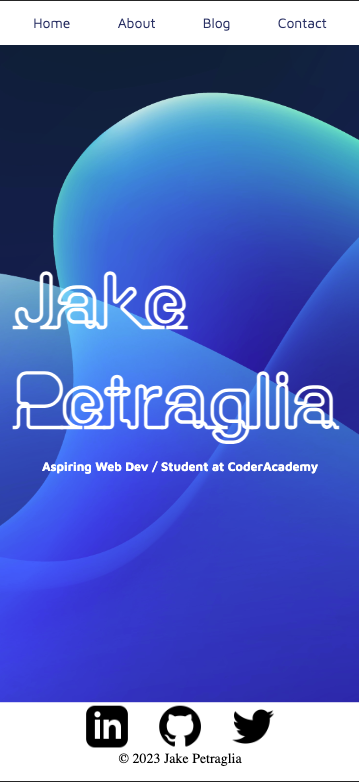
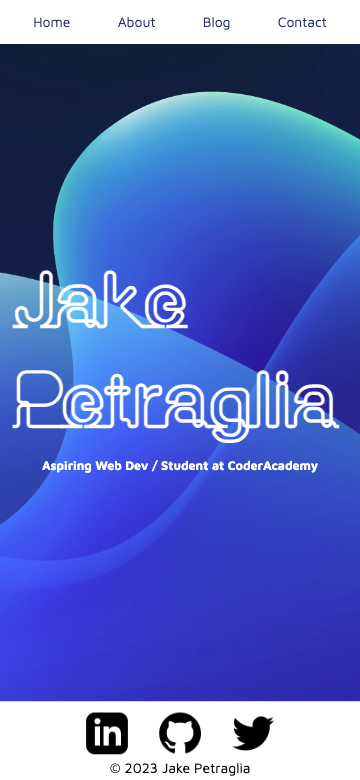
replaced the home mobile image, and adjusted the html and css so its less repeatable

diff --git a/src/styles.css b/src/styles.css
@@ -16,6 +16,9 @@ body {
     overflow: hidden;
 }
 
+/* Navigation component that is applied to each page at a fixed position,
+so that it will stick with the user as they scroll through the page */
+
 .navbar {
     display: flex;
     justify-content: space-evenly;
@@ -74,6 +77,8 @@ body {
     font-family: mySecondFont;
 }
 
+/* Footer component for the homepage so the user can easily access my socials */
+
 .social {
     background-color: white;
     display: flex;
@@ -119,44 +124,9 @@ body {
     font-family: mySecondFont;
 }
 
-.intro {
-    background-color: rgba(188, 188, 188, 0.3);
-    border-radius: 1%;
-    overflow: hidden;
-    padding: 1rem;
-    color: white;
-    width: 80%;
-    display: flex;
-    flex-direction: column;;
-    justify-content: center;
-    align-items: center;
-    flex-wrap: wrap;
-    margin: 2rem 0;
-}
+/* component for each section of my about page */
 
-.intro-heading {
-    font-family: myFirstFont;
-    font-size: 3rem;
-    margin: 1rem;
-    overflow: hidden;
-}
-
-.jake, .intro-text {
-    display: flex;
-    flex-direction: column-reverse;
-    align-items: center;
-    margin: 1rem 1rem;
-    padding: 1rem;
-    text-align: center;
-}
-
-.jake {
-    max-width: 100%;
-    width: 500px; 
-    height: auto;
-}
-
-.bio {
+.intro, .hobby, .bio {
     background-color: rgba(188, 188, 188, 0.3);
     border-radius: 1%;
     overflow: hidden;
@@ -167,17 +137,39 @@ body {
     flex-direction: column;
     justify-content: center;
     align-items: center;
-    margin-bottom: 2rem;
-    padding: 2rem;
+    padding: 1rem;
+    margin: 1rem 0;
+    text-align: center;
 }
 
-.bio-heading {
+.intro-heading, .bio-heading, .hobby-heading {
     font-family: myFirstFont;
     font-size: 3rem;
     margin: 1rem;
     overflow: hidden;
+}
+
+/* text component */
+ 
+.jake, .intro-text {
     display: flex;
-    justify-content: center;
+    flex-direction: column-reverse;
+    align-items: center;
+    margin: 1rem 1rem;
+    padding: 1rem;
+    text-align: center;
+}
+
+/* image component for my introduction */
+
+.jake {
+    max-width: 100%;
+    width: 500px; 
+    height: auto;
+}
+
+.work-study-list {
+    list-style-position: inside;
 }
 
 .list-heading {
@@ -189,35 +181,15 @@ body {
     font-size: 1rem;
 }
 
-.hobby {
-    background-color: rgba(188, 188, 188, 0.3);
-    border-radius: 1%;
-    overflow: hidden;
-    padding: 1rem;
-    color: white;
-    width: 80%;
-    display: flex;
-    justify-content: center;
-    align-items: center;
-    flex-wrap: wrap;
-    margin-bottom: 2rem;
-    flex-direction: column;
-    text-align: center;
-}
-
-.hobby-heading {
-    font-family: myFirstFont;
-    font-size: 3rem;
-    margin: 1rem;
-    overflow: hidden;
-    
-}
+/* image component for my hobby container */
 
 .arcade {
     max-width: 100%;
     height: auto; 
     width: 500px;
 }
+
+/* text component for hobby container */
 
 .arcade, .hobby-text {
     display: flex;
@@ -227,6 +199,7 @@ body {
     padding: 1rem;
 }
 
+/* media breakpoint so that it's responsive for mobile */
 
 @media only screen and (max-width:600px) {
      .jake {
@@ -262,6 +235,8 @@ body {
     font-family: mySecondFont;
 }
 
+/* blog component containing a blog post, each blog post has their own */
+
 .blog-one {
     background-color: rgba(188, 188, 188, 0.3);
     border-radius: 1%;
@@ -292,6 +267,8 @@ body {
     padding: 1rem;
     text-align: center;
 }
+
+/* image component for each blog post, there are five images in total */
 
 .image {
     max-width: 100%;

diff --git a/src/about.html b/src/about.html
@@ -29,13 +29,13 @@
                         <h4 class="list-heading">Most recent work experience</h4>
                         <br>
                         <div class="about-list">
-                            <ul>
+                            <ul class="work-study-list">
                                 <li>The Department of Foreign Affairs and Trade | Melbourne, Victoria | Passport Production Officer | 2022 - 2023</li>
                             </ul>
                                 <br>
                             <h4 class="list-heading">Education</h4>
                             <br>
-                             <ul>
+                             <ul class="work-study-list">
                                 <li>CoderAcademy | Full Stack Web Development Coding Bootcamp | Melbourne, Victoria | 2023 - 2024 (Projected graduation)</li>
                                 <li>RMIT University | Diploma of Languages (Japanese Major) | Meblourne, Victoria | 2016</li>
                                 <li>Catholic College Bendigo | Senior Secondary Certificate of Education | Bendigo, Victoria | 2012</li>
